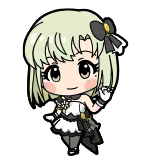
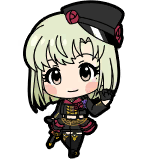
v1.3.4 debug & add 诗花玲音 new char

diff --git a/src/js/show.js b/src/js/show.js
@@ -1,6 +1,6 @@
 $(function() {
-    var log_flag = true;
-    // var log_flag = false;
+    // var log_flag = true;
+    var log_flag = false;
     // 封装console.log
     function consolog(){
         if (log_flag) {
@@ -42,7 +42,7 @@ $(function() {
         var show_list = data.list;
         // https error
         // var info2 = $.get("http://tmn07.com/info.json");
-        var info = {"1": ["\u5929\u6d77 \u6625\u9999", ["0", "01", "1", "11", "2", "22"]], "2": ["\u5982\u6708 \u5343\u65e9", ["0", "01", "1", "2", "22"]], "3": ["\u661f\u4e95 \u7f8e\u5e0c", ["0", "01", "1", "2", "22"]], "4": ["\u8429\u539f \u96ea\u6b69", ["0", "01", "1", "2"]], "5": ["\u9ad8\u69fb \u3084\u3088\u3044", ["0", "01", "1", "2"]], "6": ["\u83ca\u5730 \u771f", ["0", "01", "1", "11", "2"]], "7": ["\u6c34\u702c \u4f0a\u7e54", ["0", "01", "1", "11", "2"]], "8": ["\u56db\u6761 \u8cb4\u97f3", ["0", "01", "1", "2"]], "9": ["\u79cb\u6708 \u5f8b\u5b50", ["0", "01", "1", "2"]], "10": ["\u4e09\u6d66 \u3042\u305a\u3055", ["0", "01", "1", "2"]], "11": ["\u53cc\u6d77 \u4e9c\u7f8e", ["0", "01", "1", "2"]], "12": ["\u53cc\u6d77 \u771f\u7f8e", ["0", "01", "1", "2"]], "13": ["\u6211\u90a3\u8987 \u97ff", ["0", "01", "1", "2"]], "14": ["\u6625\u65e5 \u672a\u6765", ["0", "00", "01", "1", "10", "11", "12", "2"]], "15": ["\u6700\u4e0a \u9759\u9999", ["0", "00", "01", "1", "10", "12", "2"]], "16": ["\u4f0a\u5439 \u7ffc", ["0", "00", "01", "1", "10", "12", "2"]], "17": ["\u7530\u4e2d \u7434\u8449", ["0", "00", "01", "1", "2"]], "18": ["\u5cf6\u539f \u30a8\u30ec\u30ca", ["0", "00", "01", "1", "2"]], "19": ["\u4f50\u7af9 \u7f8e\u5948\u5b50", ["0", "00", "01", "1", "10", "2"]], "20": ["\u6240 \u6075\u7f8e", ["0", "00", "01", "1", "2"]], "21": ["\u5fb3\u5ddd \u307e\u3064\u308a", ["0", "00", "01", "1", "2"]], "22": ["\u7bb1\u5d0e \u661f\u68a8\u82b1", ["0", "00", "01", "1", "2"]], "23": ["\u91ce\u3005\u539f \u831c", ["0", "00", "01", "1", "2"]], "24": ["\u671b\u6708 \u674f\u5948", ["0", "00", "01", "1", "11", "2"]], "25": ["\u4f34\u7530 \u8def\u5b50", ["0", "00", "01", "1", "2"]], "26": ["\u4e03\u5c3e \u767e\u5408\u5b50", ["0", "00", "01", "1", "2"]], "27": ["\u9ad8\u5c71 \u7d17\u4ee3\u5b50", ["0", "00", "01", "1", "2"]], "28": ["\u677e\u7530 \u4e9c\u5229\u6c99", ["0", "00", "01", "1", "2"]], "29": ["\u9ad8\u5742 \u6d77\u7f8e", ["0", "00", "01", "1", "2"]], "30": ["\u4e2d\u8c37 \u80b2", ["0", "00", "01", "1", "2"]], "31": ["\u5929\u7a7a\u6a4b \u670b\u82b1", ["0", "00", "01", "1", "2"]], "32": ["\u30a8\u30df\u30ea\u30fc \u30b9\u30c1\u30e5\u30a2\u30fc\u30c8", ["0", "00", "01", "1", "2"]], "33": ["\u5317\u6ca2 \u5fd7\u4fdd", ["0", "00", "01", "1", "2"]], "34": ["\u821e\u6d5c \u6b69", ["0", "00", "01", "1", "11", "2"]], "35": ["\u6728\u4e0b \u3072\u306a\u305f", ["0", "00", "01", "1", "2"]], "36": ["\u77e2\u5439 \u53ef\u5948", ["0", "00", "01", "1", "2"]], "37": ["\u6a2a\u5c71 \u5948\u7dd2", ["0", "00", "01", "1", "2"]], "38": ["\u4e8c\u968e\u5802 \u5343\u9db4", ["0", "00", "01", "1", "2"]], "39": ["\u99ac\u5834 \u3053\u306e\u307f", ["0", "00", "01", "1", "2"]], "40": ["\u5927\u795e \u74b0", ["0", "00", "01", "1", "2"]], "41": ["\u8c4a\u5ddd \u98a8\u82b1", ["0", "00", "01", "1", "2"]], "42": ["\u5bae\u5c3e \u7f8e\u4e5f", ["0", "00", "01", "1", "2"]], "43": ["\u798f\u7530 \u306e\u308a\u5b50", ["0", "00", "01", "1", "2"]], "44": ["\u771f\u58c1 \u745e\u5e0c", ["0", "00", "01", "1", "2"]], "45": ["\u7be0\u5bae \u53ef\u6190", ["0", "00", "01", "1", "2"]], "46": ["\u767e\u702c \u8389\u7dd2", ["0", "00", "01", "1", "2"]], "47": ["\u6c38\u5409 \u6634", ["0", "00", "01", "1", "2"]], "48": ["\u5317\u4e0a \u9e97\u82b1", ["0", "00", "01", "1", "2"]], "49": ["\u5468\u9632 \u6843\u5b50", ["0", "00", "01", "1", "2"]], "50": ["\u30b8\u30e5\u30ea\u30a2", ["0", "00", "01", "1", "2"]], "51": ["\u767d\u77f3 \u7d2c", ["0", "00", "01", "1", "10", "2"]], "52": ["\u685c\u5b88 \u6b4c\u7e54", ["0", "00", "01", "1", "10", "2"]], "53": ["\u97f3\u7121 \u5c0f\u9ce5", []], "54": ["\u9752\u7fbd \u7f8e\u54b2", []], "55": ["\u8a69\u82b1", ["01"]], "56": ["\u73b2\u97f3", ["01"]]};
+        var info = {"1": ["\u5929\u6d77 \u6625\u9999", ["0", "01", "1", "11", "2", "22"]], "2": ["\u5982\u6708 \u5343\u65e9", ["0", "01", "1", "2", "22"]], "3": ["\u661f\u4e95 \u7f8e\u5e0c", ["0", "01", "1", "2", "22"]], "4": ["\u8429\u539f \u96ea\u6b69", ["0", "01", "1", "2"]], "5": ["\u9ad8\u69fb \u3084\u3088\u3044", ["0", "01", "1", "2"]], "6": ["\u83ca\u5730 \u771f", ["0", "01", "1", "11", "2"]], "7": ["\u6c34\u702c \u4f0a\u7e54", ["0", "01", "1", "11", "2"]], "8": ["\u56db\u6761 \u8cb4\u97f3", ["0", "01", "1", "2"]], "9": ["\u79cb\u6708 \u5f8b\u5b50", ["0", "01", "1", "2"]], "10": ["\u4e09\u6d66 \u3042\u305a\u3055", ["0", "01", "1", "2"]], "11": ["\u53cc\u6d77 \u4e9c\u7f8e", ["0", "01", "1", "2"]], "12": ["\u53cc\u6d77 \u771f\u7f8e", ["0", "01", "1", "2"]], "13": ["\u6211\u90a3\u8987 \u97ff", ["0", "01", "1", "2"]], "14": ["\u6625\u65e5 \u672a\u6765", ["0", "00", "01", "1", "10", "11", "12", "2"]], "15": ["\u6700\u4e0a \u9759\u9999", ["0", "00", "01", "1", "10", "12", "2"]], "16": ["\u4f0a\u5439 \u7ffc", ["0", "00", "01", "1", "10", "12", "2"]], "17": ["\u7530\u4e2d \u7434\u8449", ["0", "00", "01", "1", "2"]], "18": ["\u5cf6\u539f \u30a8\u30ec\u30ca", ["0", "00", "01", "1", "2"]], "19": ["\u4f50\u7af9 \u7f8e\u5948\u5b50", ["0", "00", "01", "1", "10", "2"]], "20": ["\u6240 \u6075\u7f8e", ["0", "00", "01", "1", "2"]], "21": ["\u5fb3\u5ddd \u307e\u3064\u308a", ["0", "00", "01", "1", "2"]], "22": ["\u7bb1\u5d0e \u661f\u68a8\u82b1", ["0", "00", "01", "1", "2"]], "23": ["\u91ce\u3005\u539f \u831c", ["0", "00", "01", "1", "2"]], "24": ["\u671b\u6708 \u674f\u5948", ["0", "00", "01", "1", "11", "2"]], "25": ["\u4f34\u7530 \u8def\u5b50", ["0", "00", "01", "1", "2"]], "26": ["\u4e03\u5c3e \u767e\u5408\u5b50", ["0", "00", "01", "1", "2"]], "27": ["\u9ad8\u5c71 \u7d17\u4ee3\u5b50", ["0", "00", "01", "1", "2"]], "28": ["\u677e\u7530 \u4e9c\u5229\u6c99", ["0", "00", "01", "1", "2"]], "29": ["\u9ad8\u5742 \u6d77\u7f8e", ["0", "00", "01", "1", "2"]], "30": ["\u4e2d\u8c37 \u80b2", ["0", "00", "01", "1", "2"]], "31": ["\u5929\u7a7a\u6a4b \u670b\u82b1", ["0", "00", "01", "1", "2"]], "32": ["\u30a8\u30df\u30ea\u30fc \u30b9\u30c1\u30e5\u30a2\u30fc\u30c8", ["0", "00", "01", "1", "2"]], "33": ["\u5317\u6ca2 \u5fd7\u4fdd", ["0", "00", "01", "1", "2"]], "34": ["\u821e\u6d5c \u6b69", ["0", "00", "01", "1", "11", "2"]], "35": ["\u6728\u4e0b \u3072\u306a\u305f", ["0", "00", "01", "1", "2"]], "36": ["\u77e2\u5439 \u53ef\u5948", ["0", "00", "01", "1", "2"]], "37": ["\u6a2a\u5c71 \u5948\u7dd2", ["0", "00", "01", "1", "2"]], "38": ["\u4e8c\u968e\u5802 \u5343\u9db4", ["0", "00", "01", "1", "2"]], "39": ["\u99ac\u5834 \u3053\u306e\u307f", ["0", "00", "01", "1", "2"]], "40": ["\u5927\u795e \u74b0", ["0", "00", "01", "1", "2"]], "41": ["\u8c4a\u5ddd \u98a8\u82b1", ["0", "00", "01", "1", "2"]], "42": ["\u5bae\u5c3e \u7f8e\u4e5f", ["0", "00", "01", "1", "2"]], "43": ["\u798f\u7530 \u306e\u308a\u5b50", ["0", "00", "01", "1", "2"]], "44": ["\u771f\u58c1 \u745e\u5e0c", ["0", "00", "01", "1", "2"]], "45": ["\u7be0\u5bae \u53ef\u6190", ["0", "00", "01", "1", "2"]], "46": ["\u767e\u702c \u8389\u7dd2", ["0", "00", "01", "1", "2"]], "47": ["\u6c38\u5409 \u6634", ["0", "00", "01", "1", "2"]], "48": ["\u5317\u4e0a \u9e97\u82b1", ["0", "00", "01", "1", "2"]], "49": ["\u5468\u9632 \u6843\u5b50", ["0", "00", "01", "1", "2"]], "50": ["\u30b8\u30e5\u30ea\u30a2", ["0", "00", "01", "1", "2"]], "51": ["\u767d\u77f3 \u7d2c", ["0", "00", "01", "1", "10", "2"]], "52": ["\u685c\u5b88 \u6b4c\u7e54", ["0", "00", "01", "1", "10", "2"]], "53": ["\u97f3\u7121 \u5c0f\u9ce5", []], "54": ["\u9752\u7fbd \u7f8e\u54b2", []], "55": ["\u8a69\u82b1", ["01", "02"]], "56": ["\u73b2\u97f3", ["01", "02"]]};
         
         var n = Math.floor(Math.random() * show_list.length + 1)-1; 
         // consolog(show_list[n]);

diff --git a/src/option/ho.js b/src/option/ho.js
@@ -1,4 +1,3 @@
-
 function set_options(data){
 	if (data.ho_btn=="1") {
 		$("#o11").click();
@@ -25,7 +24,6 @@ function set_options(data){
 	// $("#audio1").click();
 }
 
-
 if (chrome.i18n.getUILanguage()!="zh_CN") {
 	finish_msg = chrome.i18n.getMessage("finishMsg");
 	noneHoMethod = chrome.i18n.getMessage("noneHoMethod");
@@ -48,8 +46,6 @@ if (chrome.i18n.getUILanguage()!="zh_CN") {
     // $('#clr_btn').text(chrome.i18n.getMessage("optionButtonClr"))
     // finish_msg = chrome.i18n.getMessage("finishMsg")
 }
-
-
 
 $("#ho_save_btn").click(function(){
 
@@ -84,10 +80,10 @@ $("#ho_save_btn").click(function(){
 		}
 	}
 	// ho_method = $("");
-	console.log(ho_btn);
-	console.log(ho_range);
-	console.log(ho_prob);
-	console.log(ho_method);
+	// console.log(ho_btn);
+	// console.log(ho_range);
+	// console.log(ho_prob);
+	// console.log(ho_method);
     chrome.storage.local.set({
     	ho_btn: ho_btn,
     	ho_range: ho_range,
@@ -101,10 +97,6 @@ $("#ho_save_btn").click(function(){
 })
 
 
-
-
-
-
 chrome.storage.local.get({
 	 ho_btn:"0",
 	 ho_range:"1",
@@ -112,12 +104,7 @@ chrome.storage.local.get({
 	 ho_method:['1'],
 	 ho_audio: ['1'],
 	 }, function(data){
-
-	 console.log(data);
-
+	 // console.log(data);
 	 set_options(data);
-
-    // var show_list = data.list;
-    
 });
 

diff --git a/src/js/bg.js b/src/js/bg.js
@@ -2,18 +2,18 @@
 chrome.contextMenus.create({
     title: "まつり!",
     onclick: function(){
-      chrome.tabs.executeScript({
-        code: "document.getElementById('myaudio').play()"
-      });
+      // chrome.tabs.executeScript({
+      //   code: "document.getElementById('myaudio').play()"
+      // });
       // 获取id
       // var myid = chrome.runtime.id;
-      // chrome.tabs.create({url: "option/index.html"});
+      chrome.tabs.create({url: "option/index.html"});
     }
 });
 
 
 var show_flag = true;
-var position ="right: 0px;top: 0px;";
+var position ="right: 30px;top: 30px;";
 chrome.runtime.onMessage.addListener(function (request, sender, callback) {
   cbk_obj = {}
   if (request.hasOwnProperty("position")) {

diff --git a/src/option/index.html b/src/option/index.html
@@ -66,7 +66,7 @@
 
   <div id="footer">
     <p style="text-align: right; font-size: 125%; padding-right: 40px; padding-bottom: 10px;">
-      20200126ver. developed by <a href="https://github.com/qq519043202">Tmn07</a>
+      20200427ver. developed by <a href="https://github.com/qq519043202">Tmn07</a>
     </p>
   </div>
   <script type="text/javascript" src="option.js"></script>

diff --git a/src/option/option.js b/src/option/option.js
@@ -43,6 +43,9 @@ chrome.storage.local.get({list:[]}, function(data){
         if (show_list[i]==54) {
             $("input.idol")[52].click();
         }
+        else if(show_list[i]==55){
+            $("input.idol")[53].click();
+        }
         else{
             $("input.idol")[show_list[i]].click();
         }
